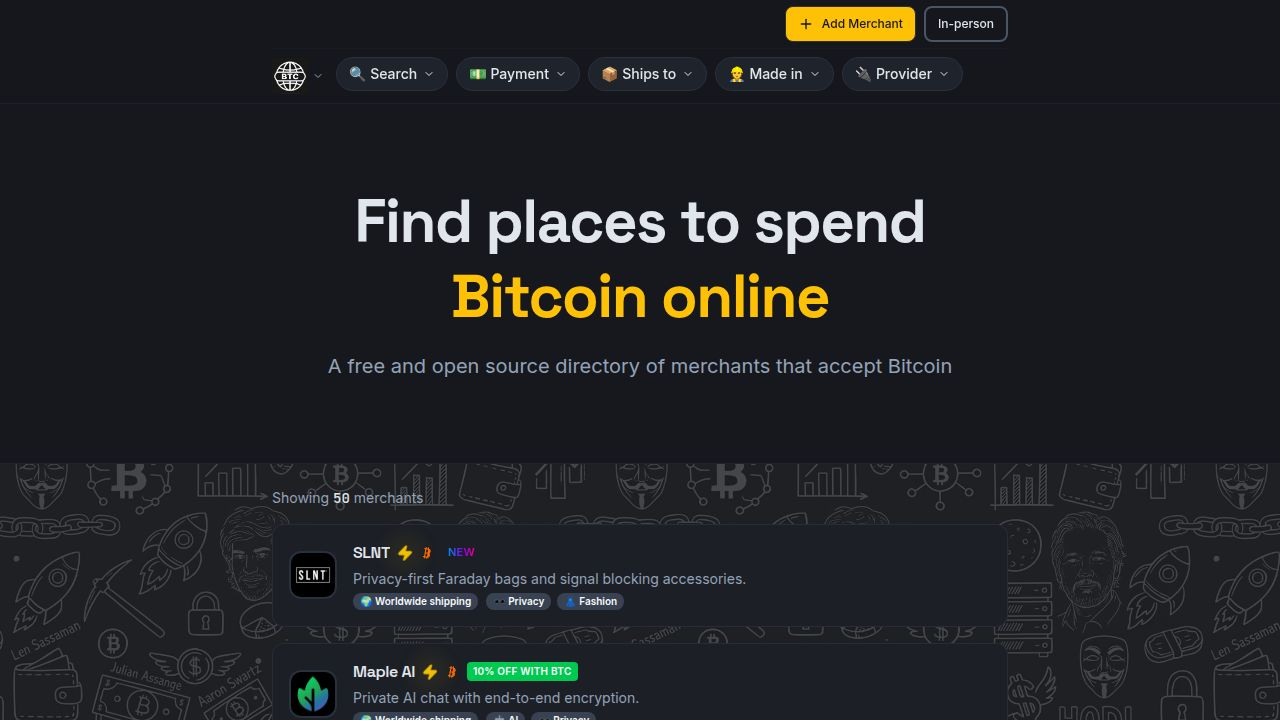
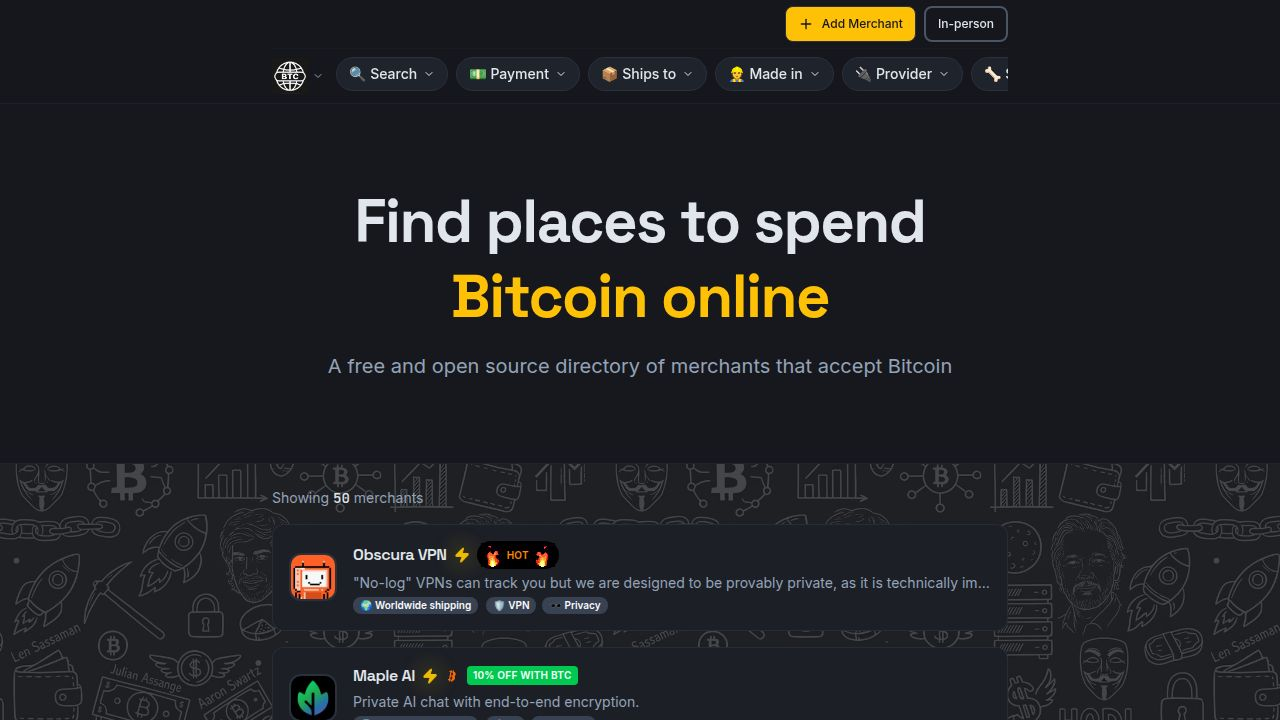
Increase size of animated fire badge for "HOT" merchants
Update the merchant card component to increase the size of the animated fire video elements used in the "HOT" badge for promoted merchants.

Replit-Commit-Author: Agent
Replit-Commit-Session-Id: 835647ae-2979-41d9-b906-fb7b31ed54e9
Replit-Commit-Checkpoint-Type: full_checkpoint
Replit-Commit-Event-Id: 5304c719-0e6e-426b-b627-369cef1c330e
Replit-Commit-Screenshot-Url: https://storage.googleapis.com/screenshot-production-us-central1/836d56c9-18a9-46ad-9972-6a9fa87541a8/835647ae-2979-41d9-b906-fb7b31ed54e9/8AwgrUq
Replit-Helium-Checkpoint-Created: true

diff --git a/client/src/components/merchant-card.tsx b/client/src/components/merchant-card.tsx
@@ -93,9 +93,9 @@ export default function MerchantCard({ merchant }: MerchantCardProps) {
             )}
             {merchant.name === "Obscura VPN" && (
               <span className="shrink-0 inline-flex items-center justify-center bg-black rounded-full px-1 py-0.5 gap-0 relative">
-                <video src="/assets/fire.webm" autoPlay loop muted playsInline className="h-4 w-4 object-cover" />
+                <video src="/assets/fire.webm" autoPlay loop muted playsInline className="h-6 w-6 object-cover" />
                 <span className="text-[10px] font-bold text-orange-400 uppercase tracking-wide mx-0.5 relative top-[1px]">HOT</span>
-                <video src="/assets/fire.webm" autoPlay loop muted playsInline className="h-4 w-4 object-cover" style={{ transform: "scaleX(-1)" }} />
+                <video src="/assets/fire.webm" autoPlay loop muted playsInline className="h-6 w-6 object-cover" style={{ transform: "scaleX(-1)" }} />
               </span>
             )}
           </div>
